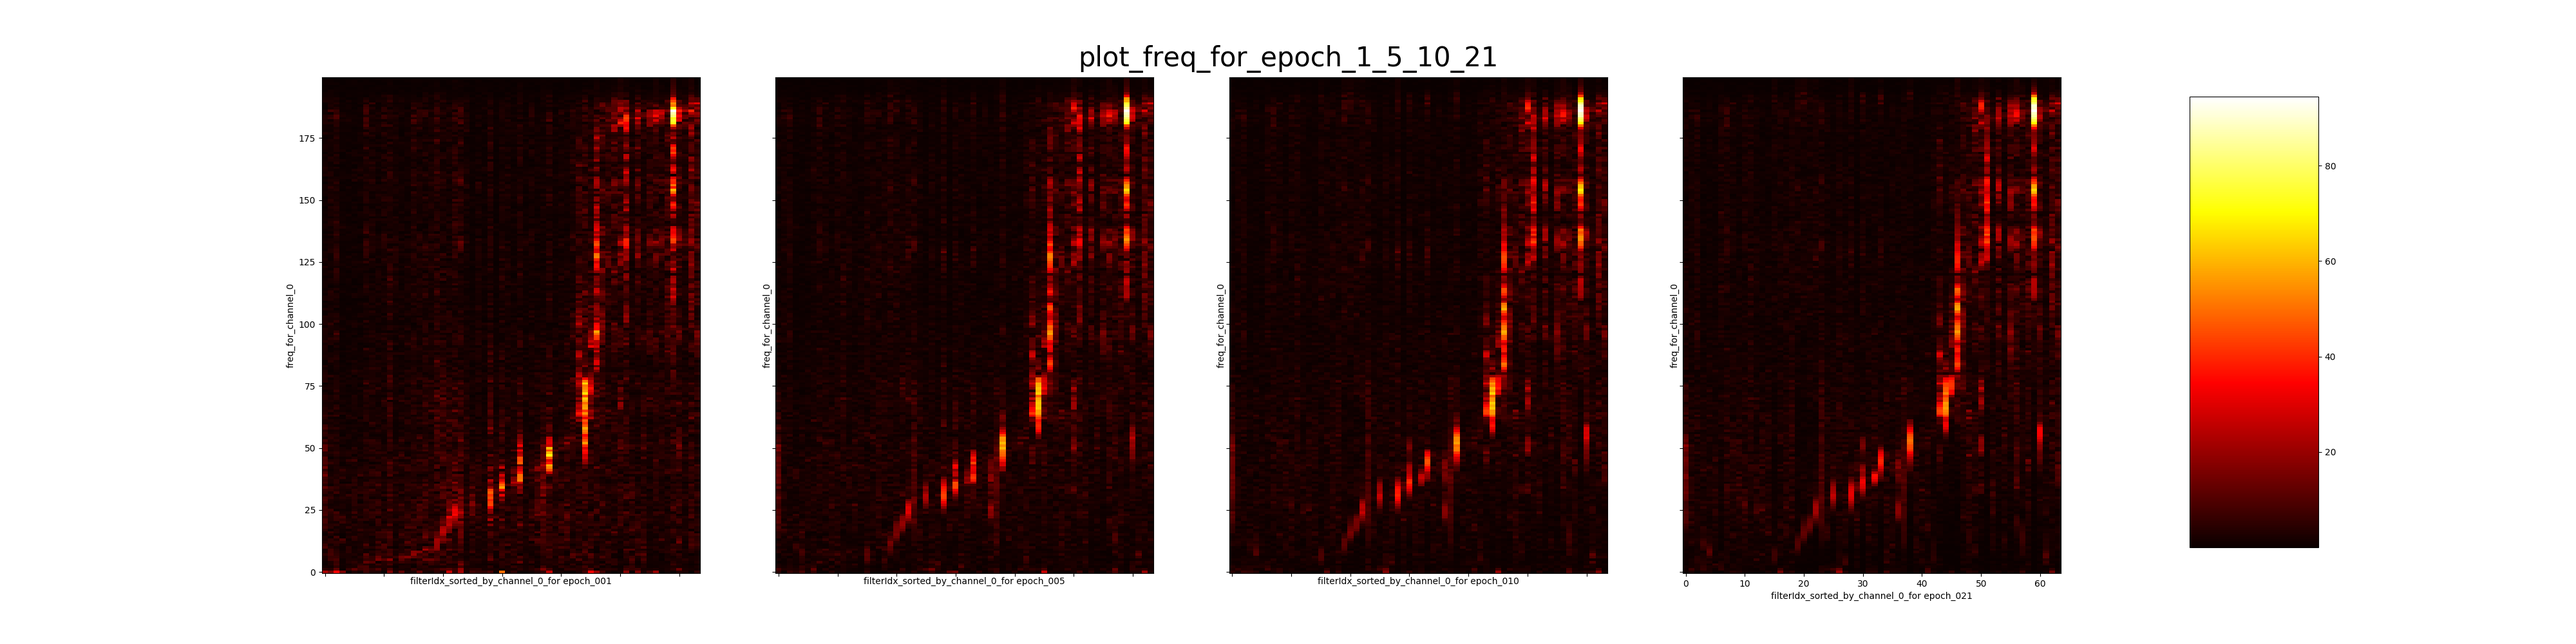
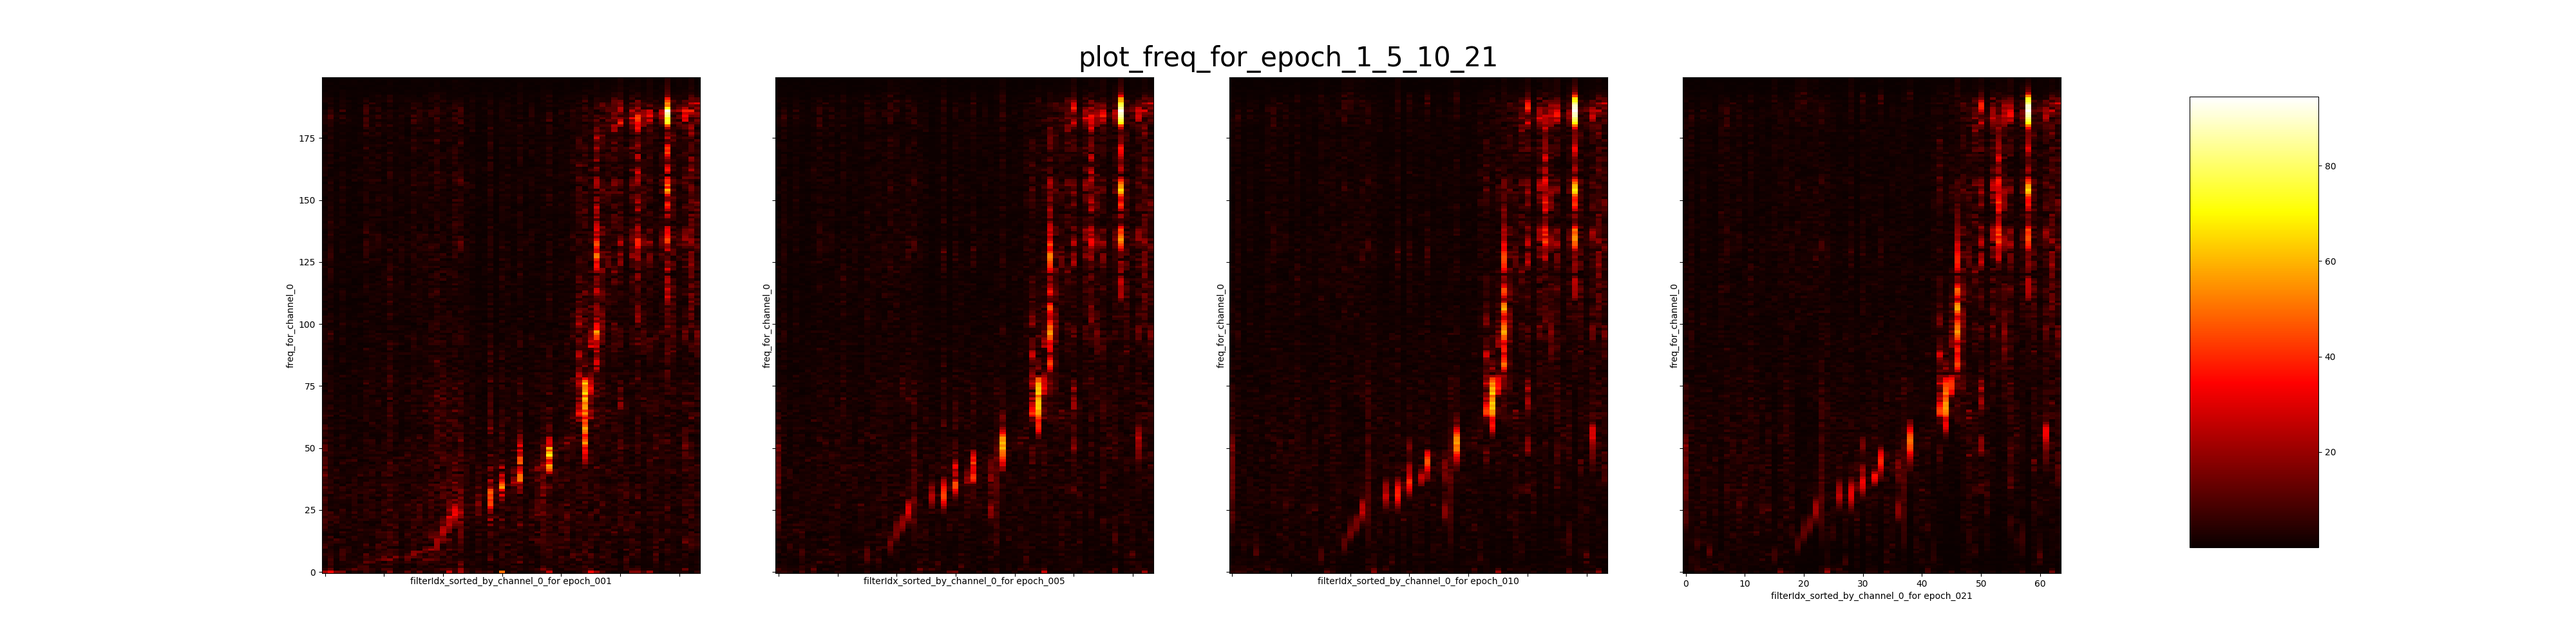
up

diff --git a/returnnTfNetworkLayerPlotter.py b/returnnTfNetworkLayerPlotter.py
@@ -19,6 +19,7 @@ class ReturnnLayerPlotter(object):
         self.plottingConfigs = plottingConfigs
         self.numEpochs = numEpochs
         self.epochRangeToPlotPerColumn = [self.numEpochs if x == 'numEpochs' else int(x) for x in self.plottingConfigs['plotRange']]
+        self.reverse = self.plottingConfigs['reverse']
         self.layerType = self.plottingConfigs['layerType']
         self.weights = self.loadWeights()
         self.layer = self.getLayer()
@@ -28,6 +29,8 @@ class ReturnnLayerPlotter(object):
         weights = []
         for i in self.epochRangeToPlotPerColumn:
             epochWeight = np.load(os.path.join(self.pathToWeights, self.nameOfLayerPath + '_epoch' + str(i) + '_MMF.npy'))
+            if(self.reverse):
+                epochWeight = np.flip(epochWeight, axis=0)
             weights.append(np.squeeze(epochWeight))
         return weights
 
@@ -40,7 +43,7 @@ class ReturnnLayerPlotter(object):
         isPlottingDomainLog = self.plottingConfigs['log']
 
         if(isLayerWeightComposedOf1Subarrays):
-            return FeedForwardLayer(self.weights, self.nameOfLayer, self.nameOfLayerPath, wishedPlottings) 
+            return FeedForwardLayer(self.weights, self.nameOfLayer, self.nameOfLayerPath, wishedPlottings, isPlottingDomainLog)
         elif(isLayerWeightComposedOf2Subarrays):
             if(self.layerType == 'conv'):
                 return Conv1DLayer(self.weights, self.nameOfLayer, self.nameOfLayerPath, wishedPlottings, isPlottingDomainLog) 
@@ -58,19 +61,18 @@ class ReturnnLayerPlotter(object):
 class Layer(object):
     """This is an abstract class"""
 
-    def __init__(self, weights, name, namePath):
-        self.weights = weights
+    def __init__(self, weights, name, namePath, isPlottingDomainLog):
+        self.isPlottingDomainLog = isPlottingDomainLog
         self.name = name
         self.namePath = namePath
+        self.weights = weights
         self.numEpochs = len(self.weights)
         self.shape = self.weights[0].shape
         self.allowedPlottings = []
         self.plottingsToDo = []
         self.layerType = None
-        self.domain = None 
         self.dimInputIdx = 0
-        self.dimInput = 1  
-        self.plotableWeights = self.create_plotable_weights(weights) 
+        self.dimInput = 1
     
     def setDomain(self, domain):
         self.domain = domain
@@ -79,15 +81,6 @@ class Layer(object):
         self.dimInputIdx = idx
     
     def getPlotable3DWeights(self):
-        raise NotImplementedError
-
-    def getPlotable2DWeights(self):
-        raise NotImplementedError
-
-    def getPlotable1DWeights(self):
-        raise NotImplementedError
-    
-    def transformWeightsToFrequencyDomain(self):
         raise NotImplementedError
 
     def addToAllowedPlottings(self, plottings):
@@ -104,24 +97,56 @@ class Layer(object):
     def setLayerType(self, layerType):
         self.layerType = layerType 
 
+
+class ProcessedWeights(object):
+
+    def __init__(self, weights, filterSize, isPlottingDomainLog, dimInput, timeFreqRatio=2): 
+        self.dimInput = dimInput
+        self.weights = weights
+        self.filterSize = filterSize 
+        self.timeFreqRatio = timeFreqRatio
+        self.permutation = None 
+        self.isPlottingDomainLog = isPlottingDomainLog
+        self.timeAxisTime = np.arange(self.filterSize)
+        self.timeAxisFreq = np.arange(int(self.filterSize/2))
+        self.plotableWeights = self.create_plotable_weights(weights)
+        self.plotableWeightsFreq, self.plotableWeightsFreqSorted = self.getFrequencyDomain()
+
     def create_plotable_weights(self, weights):
         self.plotableWeights = []
         for i in range(self.dimInput):
             self.plotableWeights.append([x for x in weights])
         return self.plotableWeights
 
-class FourierFilterWeights(object):
+    def getPlotable2DWeights(self, domain):
+        if domain == 'time':
+            return self.transformToHeatPlotableWeights(self.plotableWeights, 1)
+        elif domain == 'freq':
+            return self.transformToHeatPlotableWeights(self.plotableWeightsFreq, self.timeFreqRatio)
 
-    def __init__(self, plotableWeights, filterSize, isPlottingDomainLog, timeFreqRatio=2): 
-        self.plotableWeights = plotableWeights
-        self.filterSize = filterSize 
-        self.timeFreqRatio = timeFreqRatio
-        self.permutation = None 
-        self.isPlottingDomainLog = isPlottingDomainLog
-        self.channelUsedForPermutation = 0 
-        self.timeAxisTime = np.arange(self.filterSize)
-        self.timeAxisFreq = np.arange(int(self.filterSize/2))
-        self.plotableWeightsFreq, self.plotableWeightsFreqSorted = self.getFrequencyDomain()
+    def getPlotableSorted2DWeights(self):
+        return self.transformToHeatPlotableWeights(self.plotableWeightsFreqSorted, self.timeFreqRatio)
+
+    def transformToHeatPlotableWeights(self, listOfWeights, filterSizeRatio):
+        timeOrFreqAxisDim = self.filterSize/filterSizeRatio
+        timeOrFreqChannelDim = self.dimInput * timeOrFreqAxisDim 
+        numChannels = len(listOfWeights)
+        numEpochToPlot = len(listOfWeights[0])
+
+        transformedList = []
+        for j in range(numEpochToPlot):
+            l = []
+            for i in range(numChannels):
+                l.append(np.swapaxes(listOfWeights[i][j],0,1))
+            transformedList.append(l)
+
+        return transformedList
+
+    def getPlotable1DWeights(self, domain, dimInputIdx):
+        if domain == 'time':
+            return self.plotableWeights[dimInputIdx], self.timeAxisTime
+        elif domain == 'freq':
+            return self.plotableWeightsFreq[dimInputIdx], self.timeAxisFreq
 
     def fourierTransform(self, plotableWeightsSingleDim, sortFn):
             l = []
@@ -151,8 +176,8 @@ class FourierFilterWeights(object):
 
 class FeedForwardLayer(Layer):
     
-    def __init__(self, weights, name, namePath, wishedPlottings):
-        super(FeedForwardLayer, self).__init__(weights, name, namePath)
+    def __init__(self, weights, name, namePath, wishedPlottings, isPlottingDomainLog):
+        super(FeedForwardLayer, self).__init__(weights, name, namePath, isPlottingDomainLog)
         self.filterSize = self.shape[1]
         self.numFilters = self.shape[0]
         assert weights[0].shape[0] == self.numFilters, "dim not correct"
@@ -160,21 +185,22 @@ class FeedForwardLayer(Layer):
         self.addToAllowedPlottings(['2DWeightsHeat'])
         self.setLayerType(type(self).__name__)
         self.createPlottingsToDo(wishedPlottings)
-
-        self.fourierFilterWeights = FourierFilterWeights(self.plotableWeights, self.filterSize, isPlottingDomainLog)
-        self.plotableWeightsFreq, self.plotableWeightsFreqSorted = self.fourierFilterWeights.getFrequencyDomain()
-        
-    def getPlotable2DWeights(self):
-        assert self.dimInputIdx == 0, "for feed forward layer there is always only one dim"
-        return self.plotableWeights
+        self.processedWeights = ProcessedWeights(self.weights, self.filterSize, isPlottingDomainLog, self.dimInput)
+        self.channelUsedForPermutation = 0 
 
     def getPlotable1DWeights(self):
         pass  
 
+    def getPlotable2DWeights(self, domain):
+        return self.processedWeights.getPlotable2DWeights(domain)
+
+    def getPlotableSorted2DWeights(self):
+        return self.processedWeights.getPlotableSorted2DWeights()
+
 class Conv1DLayer(Layer):
 
     def __init__(self, weights, name, namePath, wishedPlottings, isPlottingDomainLog):
-        super(Conv1DLayer, self).__init__(weights, name, namePath)
+        super(Conv1DLayer, self).__init__(weights, name, namePath, isPlottingDomainLog)
         self.filterSize = self.shape[1]
         self.numFilters = self.shape[0]
         assert weights[0].shape[0] == self.numFilters, "dim not correct"
@@ -182,39 +208,17 @@ class Conv1DLayer(Layer):
         self.addToAllowedPlottings(['1DWeightsSimpleAll','1DWeightsSimpleDetail','2DWeightsHeat'])
         self.setLayerType(type(self).__name__)
         self.createPlottingsToDo(wishedPlottings)
-        self.fourierFilterWeights = FourierFilterWeights(self.plotableWeights, self.filterSize, isPlottingDomainLog)
-        self.plotableWeightsFreq, self.plotableWeightsFreqSorted = self.fourierFilterWeights.getFrequencyDomain()
-
-    def getPlotable2DWeights(self):
-        if self.domain == 'time':
-            return self.transformToHeatPlotableWeights(self.plotableWeights, 1)
-        elif self.domain == 'freq':
-            return self.transformToHeatPlotableWeights(self.plotableWeightsFreq, self.fourierFilterWeights.timeFreqRatio)
-
-    def getPlotableSorted2DWeights(self):
-        return self.transformToHeatPlotableWeights(self.plotableWeightsFreqSorted, self.fourierFilterWeights.timeFreqRatio)
-
-    def transformToHeatPlotableWeights(self, listOfWeights, filterSizeRatio):
-        timeOrFreqAxisDim = self.filterSize/filterSizeRatio
-        timeOrFreqChannelDim = self.dimInput * timeOrFreqAxisDim 
-        numChannels = len(listOfWeights)
-        numEpochToPlot = len(listOfWeights[0])
-
-        transformedList = []
-        for j in range(numEpochToPlot):
-            l = []
-            for i in range(numChannels):
-                l.append(np.swapaxes(listOfWeights[i][j],0,1))
-            transformedList.append(l)
-
-        return transformedList
+        self.processedWeights = ProcessedWeights(self.weights, self.filterSize, isPlottingDomainLog, self.dimInput)
+        self.channelUsedForPermutation = 0 
 
     def getPlotable1DWeights(self):
-        if self.domain == 'time':
-            return self.plotableWeights[self.dimInputIdx], self.timeAxisTime
-        elif self.domain == 'freq':
-            return self.plotableWeightsFreq[self.dimInputIdx], self.timeAxisFreq
+        pass  
 
+    def getPlotable2DWeights(self, domain):
+        return self.processedWeights.getPlotable2DWeights(domain)
+
+    def getPlotableSorted2DWeights(self):
+        return self.processedWeights.getPlotableSorted2DWeights()
 
 class Conv2DLayer(Layer):
     
@@ -326,15 +330,15 @@ class Plotter(object):
 
         if(mode == 'sorted'):
             plotableWeights = self.layer.getPlotableSorted2DWeights()
-            mode = 'sorted_by_channel_' + str(self.layer.fourierFilterWeights.channelUsedForPermutation)
+            mode = 'sorted_by_channel_' + str(self.layer.channelUsedForPermutation)
         elif(mode == 'unsorted'):
-            plotableWeights = self.layer.getPlotable2DWeights()
+            plotableWeights = self.layer.getPlotable2DWeights(self.layer.domain)
 
         for epochRangeIdx, plotableWeight in enumerate(plotableWeights):
             for dimInputIdx, plotableWeightPerDim in enumerate(plotableWeight): 
                 im = axs[dimInputIdx][epochRangeIdx].imshow(plotableWeightPerDim, origin='lower', aspect='auto', cmap=self.plottingConfigs['cmap'])
                 axs[dimInputIdx][epochRangeIdx].set_ylabel(self.layer.domain + '_for_channel_' + str(dimInputIdx))
-                axs[dimInputIdx][epochRangeIdx].set_xlabel('filterIdx_' + mode + '_for network' + '_' + '%03d' % (self.epochRangeToPlotPerColumn[epochRangeIdx],))
+                axs[dimInputIdx][epochRangeIdx].set_xlabel('filterIdx_' + mode + '_for epoch' + '_' + '%03d' % (self.epochRangeToPlotPerColumn[epochRangeIdx],))
 
         fig.subplots_adjust(hspace=0)
         fig.subplots_adjust(right=0.8)
@@ -343,7 +347,7 @@ class Plotter(object):
         cbar_ax = fig.add_axes([0.85, 0.15, 0.05, 0.7])
         fig.colorbar(im, cax=cbar_ax)
         
-        numDomain = '_log_applied' if(self.layer.fourierFilterWeights.isPlottingDomainLog and self.layer.domain == 'freq') else ''
+        numDomain = '_log_applied' if(self.layer.isPlottingDomainLog and self.layer.domain == 'freq') else ''
         plt.suptitle(self.title + '_' + self.layer.domain + '_for_epoch_' + '_'.join(str(x) for x in self.epochRangeToPlotPerColumn) + numDomain, fontsize=self.titleFontSize, y=self.titleYPosition)
         plt.savefig(self.pathToAnalysisDir + '/' + self.layer.namePath + '_heat_map_' + self.layer.domain + '_' + mode + numDomain)
         
